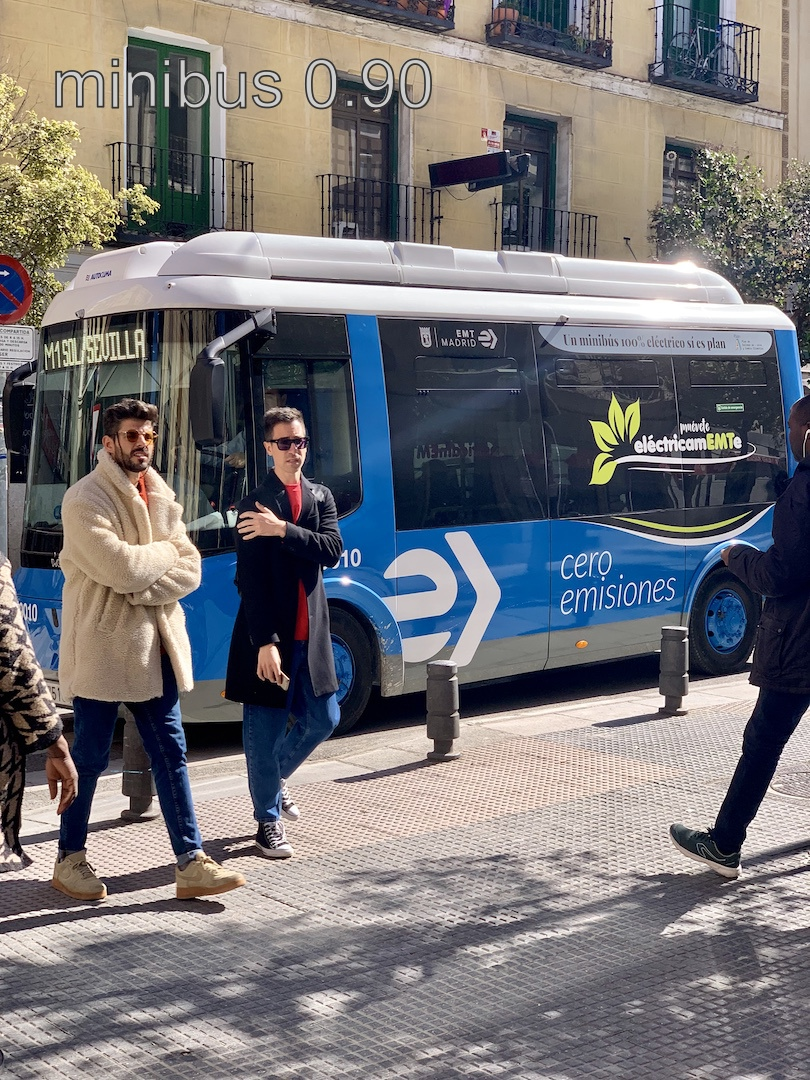
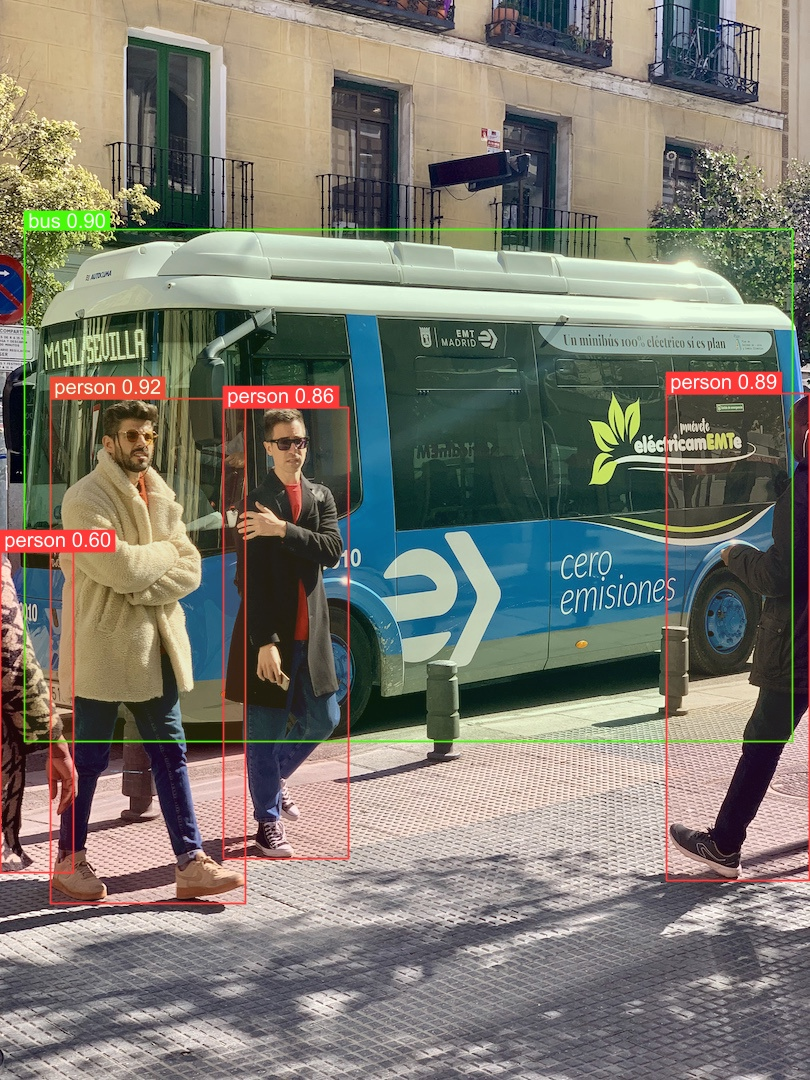
add camera detect function

diff --git a/Yolov8_NetFW/GUI_YOLOv8/Form1.cs b/Yolov8_NetFW/GUI_YOLOv8/Form1.cs
@@ -67,8 +67,62 @@ namespace GUI_YOLOv8
             {
                 Mat m = new Mat();
                 capture.Retrieve(m);
-                pictureBox1.Image = m.ToImage<Bgr, byte>().ToBitmap();
-                Thread.Sleep(1);
+                var m_clone = m.Clone();
+                var resize = get_size(m.Width, m.Height);
+                var image_bytes = ImageToByte(m.ToBitmap());
+                if (rb_dt.Checked)
+                {
+                    var boxes = detect(predictor_dect, image_bytes);
+                    foreach (var box in boxes.Boxes)
+                    {
+                        var label = $"{box.Class.Name} {box.Confidence:N}";
+                        var rect = new System.Drawing.Rectangle();
+                        rect.X = box.Bounds.X; rect.Y = box.Bounds.Y;
+                        rect.Width = box.Bounds.Width; rect.Height = box.Bounds.Height;
+                        CvInvoke.Rectangle(m, rect, new MCvScalar(0, 0, 255), 2, Emgu.CV.CvEnum.LineType.Filled);
+                        CvInvoke.PutText(m, label, new System.Drawing.Point(rect.X, rect.Y), Emgu.CV.CvEnum.FontFace.HersheySimplex, 1, new MCvScalar(0, 0, 255), 2);
+                        //m.Save("save.jpg");
+                    }
+                    CvInvoke.Resize(m, m, resize);
+                    pictureBox2.Image = m.ToBitmap();//ImageSharpToBitmap(rs_img);
+                                                     // rs_img.Dispose();
+                }
+                else if (rb_sm.Checked)
+                {
+                    var seg_results = segment(predictor_seg, image_bytes);
+                    Image<Bgr, byte> plot_image = SegmentPlotImage(seg_results, m.ToImage<Bgr, byte>());
+                    Image<Bgr, byte> result_img = new Image<Bgr, byte>(resize.Width, resize.Height);
+                    CvInvoke.Resize(plot_image, result_img, resize);
+                    pictureBox2.Image = result_img.ToBitmap();//ImageSharpToBitmap(rs_img);
+                    plot_image.Dispose();
+                    result_img.Dispose();
+
+                }
+                else if (rb_pose.Checked)
+                {
+                    var pose_results = pose(predictor_pose, image_bytes);
+                    var pose_option = new PosePlottingOptions();
+                    var plot_image = PosePlotImage(pose_results, m.ToImage<Bgr, byte>(), pose_option);
+                    Image<Bgr, byte> result_img = new Image<Bgr, byte>(resize.Width, resize.Height);
+                    CvInvoke.Resize(plot_image, result_img, resize);
+                    pictureBox2.Image = result_img.ToBitmap();//ImageSharpToBitmap(rs_img);
+                    result_img.Dispose();
+                    plot_image.Dispose();
+
+                }
+
+                else
+                {
+                    MessageBox.Show("Please choose mode Detect or Segment or Pose!");
+                    return;
+                }
+                
+                CvInvoke.Resize(m_clone, m_clone, resize);
+
+                pictureBox1.Image = m_clone.ToBitmap();
+                m.Dispose();
+                m_clone.Dispose();
+                Thread.Sleep(5);
             }
             catch (Exception ex)
             {
